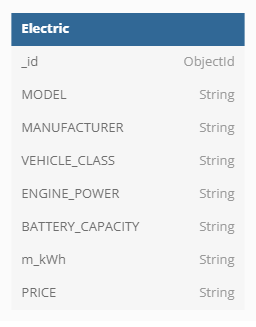
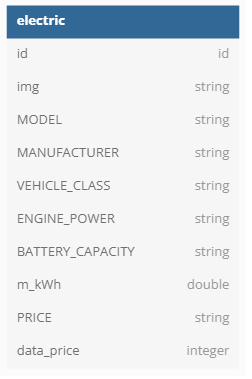
update DB image

diff --git a/README.md b/README.md
@@ -27,7 +27,7 @@ This project has been build as part of Code Institutes Earth Day Hackathon Event
 
 ## UX
 
-![wireframes](“docs/wireframes/wireframes.pdf”)
+[wireframes](“docs/wireframes/wireframes.pdf”)
 
 ### **Project Goals**
 - Educate the user about the danger of climate change
